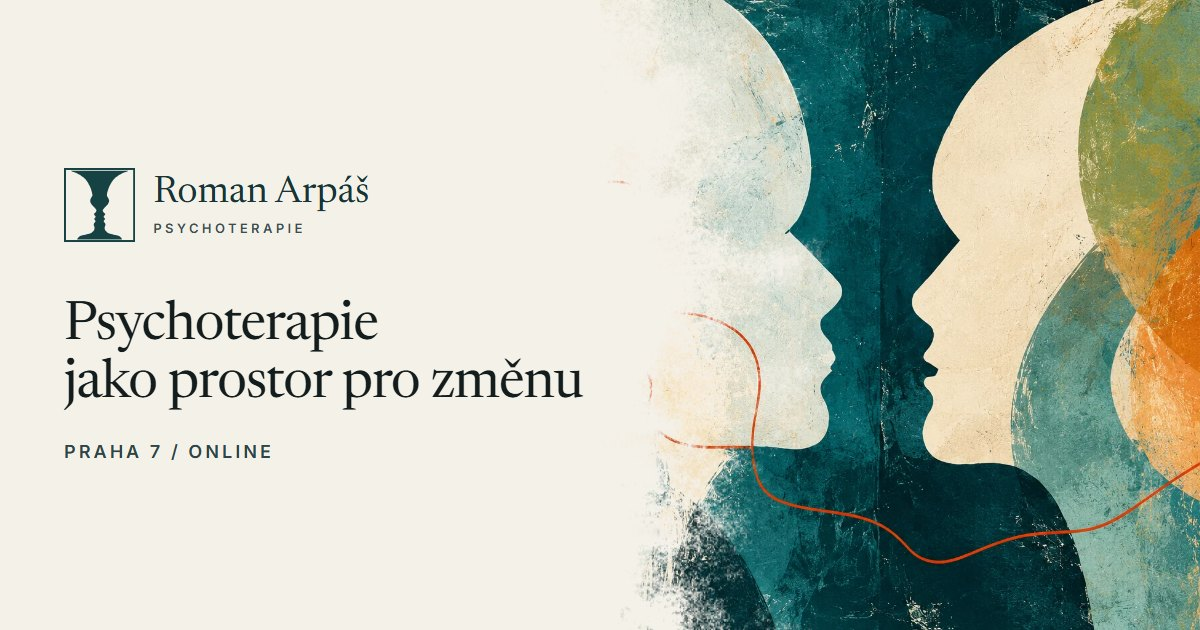
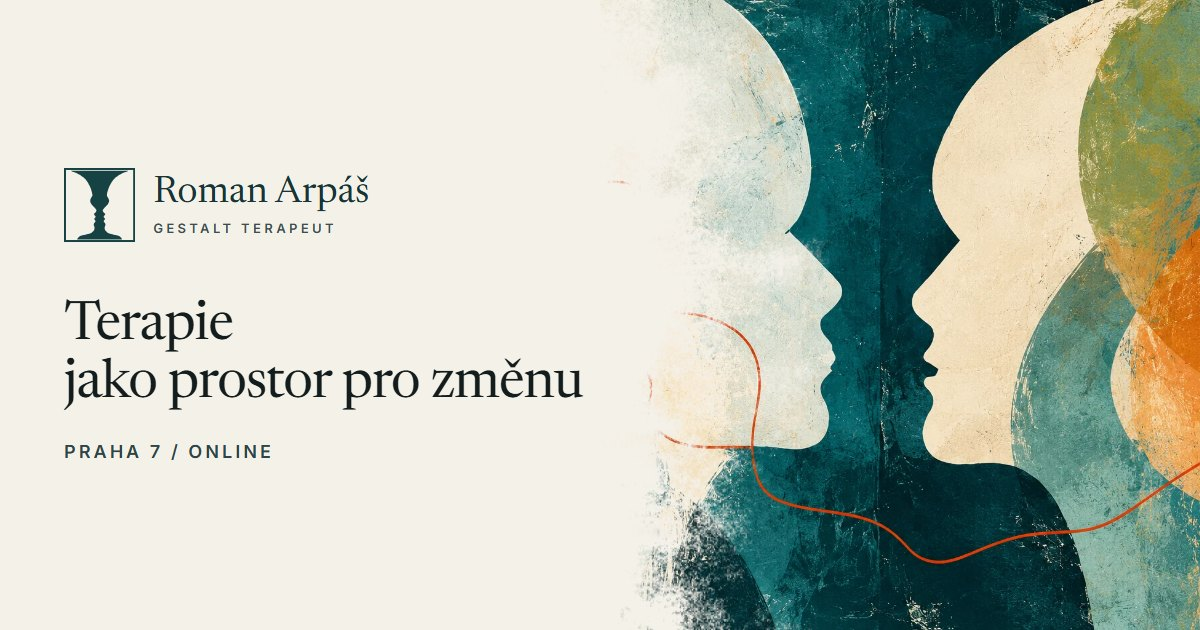
feat(content): gestalt terapeut v hlavičce a patičce, claim „Terapie jako prostor pro změnu“ (#15)
Méně opakování slova „psychoterapie“ na přání Romana. Metadata (title,
description, OG, JSON-LD, manifest) a OG obrázek zmiňují psychoterapii i gestalt.

Changed region(s): [[0.0308, 0.4825, 0.3083, 0.573], [0.1233, 0.3317, 0.2775, 0.3921]]

diff --git a/index.html b/index.html
@@ -3,10 +3,10 @@
     <head>
         <meta charset="utf-8" />
         <meta name="viewport" content="width=device-width, initial-scale=1" />
-        <title>Psychoterapie Praha 7 a online – Roman Arpáš</title>
+        <title>Psychoterapie Praha 7 a online – Roman Arpáš, gestalt terapeut</title>
         <meta
             name="description"
-            content="Psychoterapie v Praze 7 na Letné i online. Roman Arpáš, psychoterapeut s výcvikem v gestalt modalitě – stres, vztahy, úzkost, deprese, hledání vlastní cesty."
+            content="Psychoterapie v Praze 7 na Letné i online. Roman Arpáš, gestalt terapeut – stres, vztahy, úzkost, deprese, hledání vlastní cesty."
         />
         <link rel="canonical" href="https://www.romanarpas.eu/" />
         <meta name="theme-color" content="#f4f1e9" />
@@ -15,17 +15,20 @@
         <!-- Link previews (Facebook, WhatsApp, Messenger, LinkedIn, X) -->
         <meta property="og:type" content="website" />
         <meta property="og:locale" content="cs_CZ" />
-        <meta property="og:site_name" content="Roman Arpáš – Psychoterapie" />
+        <meta property="og:site_name" content="Roman Arpáš – gestalt terapeut" />
         <meta property="og:url" content="https://www.romanarpas.eu/" />
-        <meta property="og:title" content="Psychoterapie Praha 7 a online – Roman Arpáš" />
+        <meta property="og:title" content="Psychoterapie Praha 7 a online – Roman Arpáš, gestalt terapeut" />
         <meta
             property="og:description"
-            content="Psychoterapie jako prostor pro změnu. Osobně na Letné v Praze 7 nebo online."
+            content="Terapie jako prostor pro změnu. Psychoterapie v gestalt přístupu osobně na Letné v Praze 7 nebo online."
         />
         <meta property="og:image" content="https://www.romanarpas.eu/og-image.jpg" />
         <meta property="og:image:width" content="1200" />
         <meta property="og:image:height" content="630" />
-        <meta property="og:image:alt" content="Roman Arpáš – Psychoterapie jako prostor pro změnu, Praha 7 / online" />
+        <meta
+            property="og:image:alt"
+            content="Roman Arpáš, gestalt terapeut – Terapie jako prostor pro změnu, Praha 7 / online"
+        />
         <meta name="twitter:card" content="summary_large_image" />
 
         <link rel="icon" href="/favicon.ico" sizes="48x48" />
@@ -39,8 +42,8 @@
                 "@context": "https://schema.org",
                 "@type": "ProfessionalService",
                 "@id": "https://www.romanarpas.eu/#practice",
-                "name": "Roman Arpáš – Psychoterapie",
-                "description": "Psychoterapie v Praze 7 i online. Psychoterapeutický výcvik v gestalt modalitě.",
+                "name": "Roman Arpáš – gestalt terapeut",
+                "description": "Psychoterapie a gestalt terapie v Praze 7 i online. Psychoterapeutický výcvik v gestalt modalitě.",
                 "url": "https://www.romanarpas.eu/",
                 "image": "https://www.romanarpas.eu/og-image.jpg",
                 "telephone": "+420773242200",
@@ -68,7 +71,8 @@
                 "founder": {
                     "@type": "Person",
                     "name": "Roman Arpáš",
-                    "jobTitle": "Psychoterapeut",
+                    "jobTitle": "Gestalt terapeut",
+                    "knowsAbout": ["Psychoterapie", "Gestalt terapie"],
                     "image": "https://www.romanarpas.eu/og-image.jpg"
                 }
             }

diff --git a/src/components/Layout/NavTop/index.tsx b/src/components/Layout/NavTop/index.tsx
@@ -71,7 +71,7 @@ const NavTop = () => {
                     <GestaltMark framed className={styles.mark} />
                     <span className={styles["brand-text"]}>
                         <span className={styles["brand-name"]}>Roman Arpáš</span>
-                        <span className={styles["brand-role"]}>Psychoterapie</span>
+                        <span className={styles["brand-role"]}>Gestalt terapeut</span>
                     </span>
                 </a>
 

diff --git a/src/components/Layout/Footer/index.tsx b/src/components/Layout/Footer/index.tsx
@@ -9,7 +9,7 @@ export const Footer = () => (
             <p className={styles.brand}>
                 <GestaltMark className={styles.mark} />
                 <span>
-                    {CONTACT.name} · Psychoterapie
+                    {CONTACT.name} · Gestalt terapeut
                     <span className={styles.copy} suppressHydrationWarning>
                         &copy;&nbsp;{new Date().getFullYear()}
                     </span>

diff --git a/src/components/Layout/Hero/Hero.tsx b/src/components/Layout/Hero/Hero.tsx
@@ -23,7 +23,7 @@ export const Hero = () => (
             <div className={styles.text} data-reveal>
                 <p className="eyebrow">Psychoterapie · Praha 7 / online</p>
                 <h1 id="hero-title" className={styles.title}>
-                    Psychoterapie <br />
+                    Terapie <br />
                     jako prostor pro&nbsp;změnu
                 </h1>
                 <p className={styles.lead}>

diff --git a/CHANGELOG.md b/CHANGELOG.md
@@ -11,6 +11,8 @@ All notable changes to this project will be documented in this file.
 
 ### Changed
 
+-   Texts: "Gestalt terapeut" under the name in the header and footer, hero title "Terapie jako prostor pro změnu"
+    (fewer repetitions of "psychoterapie"); meta tags, JSON-LD, manifest and OG image updated to mention both.
 -   README rewritten for the Vite setup; ESLint now also checks React hooks rules.
 
 ### Removed
